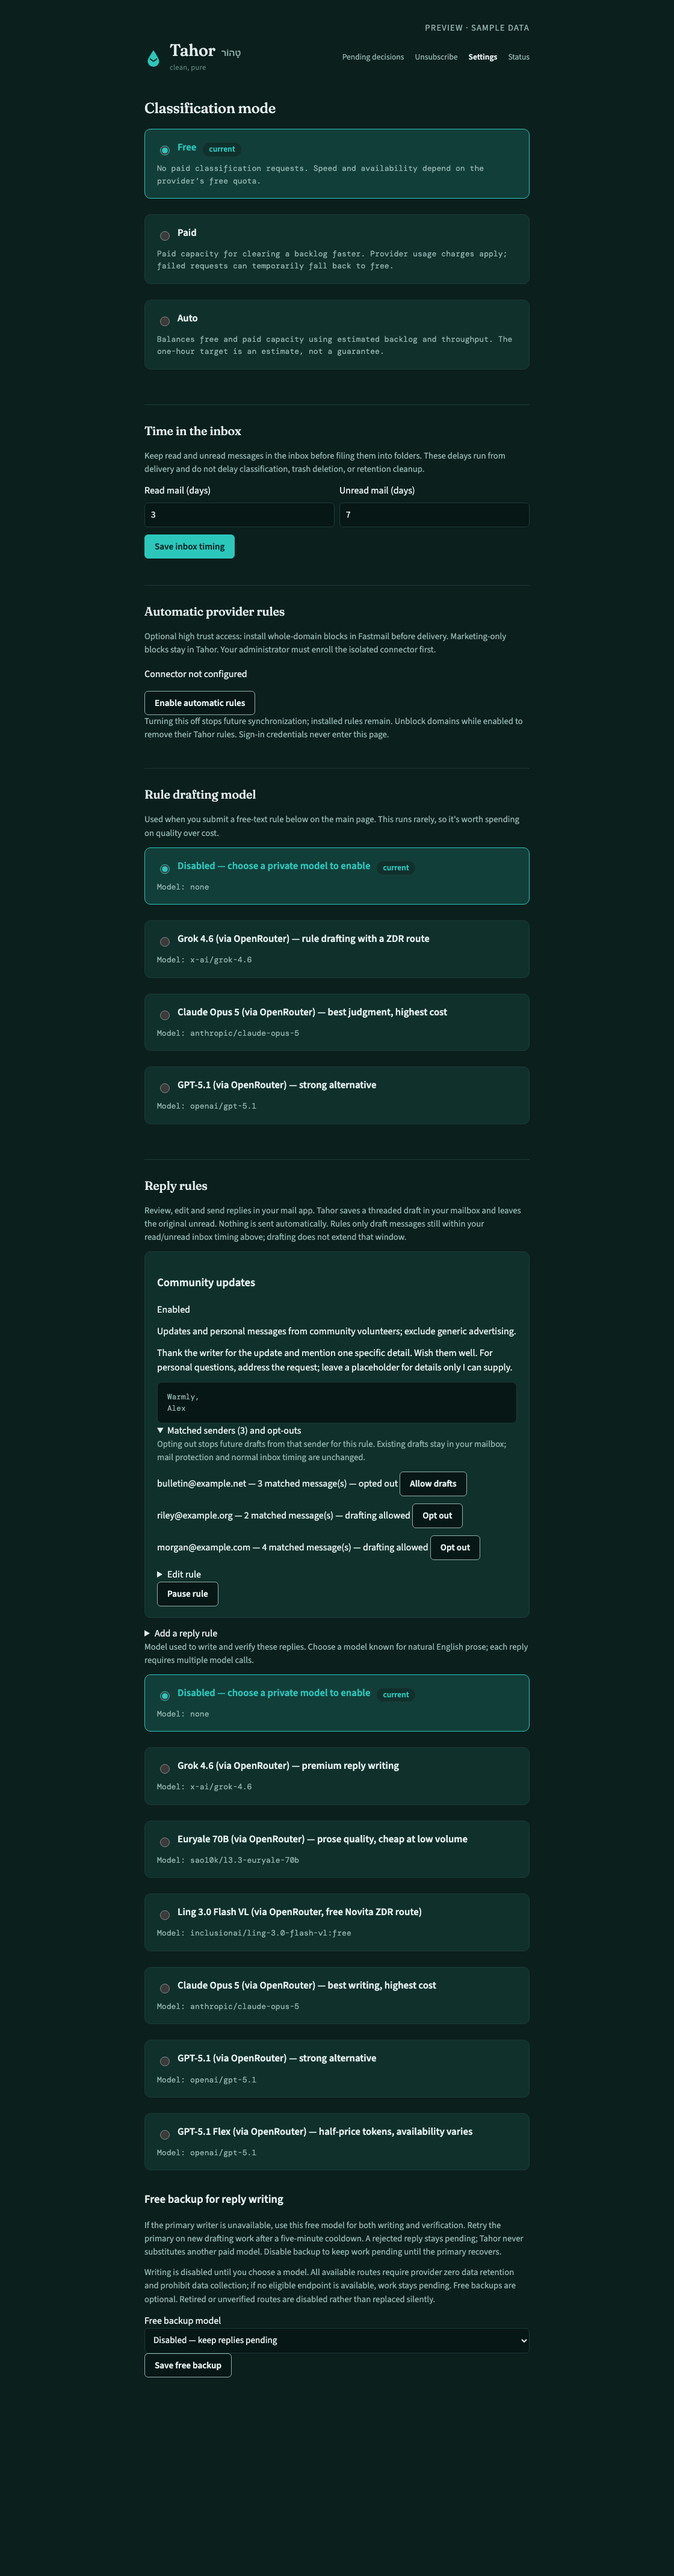
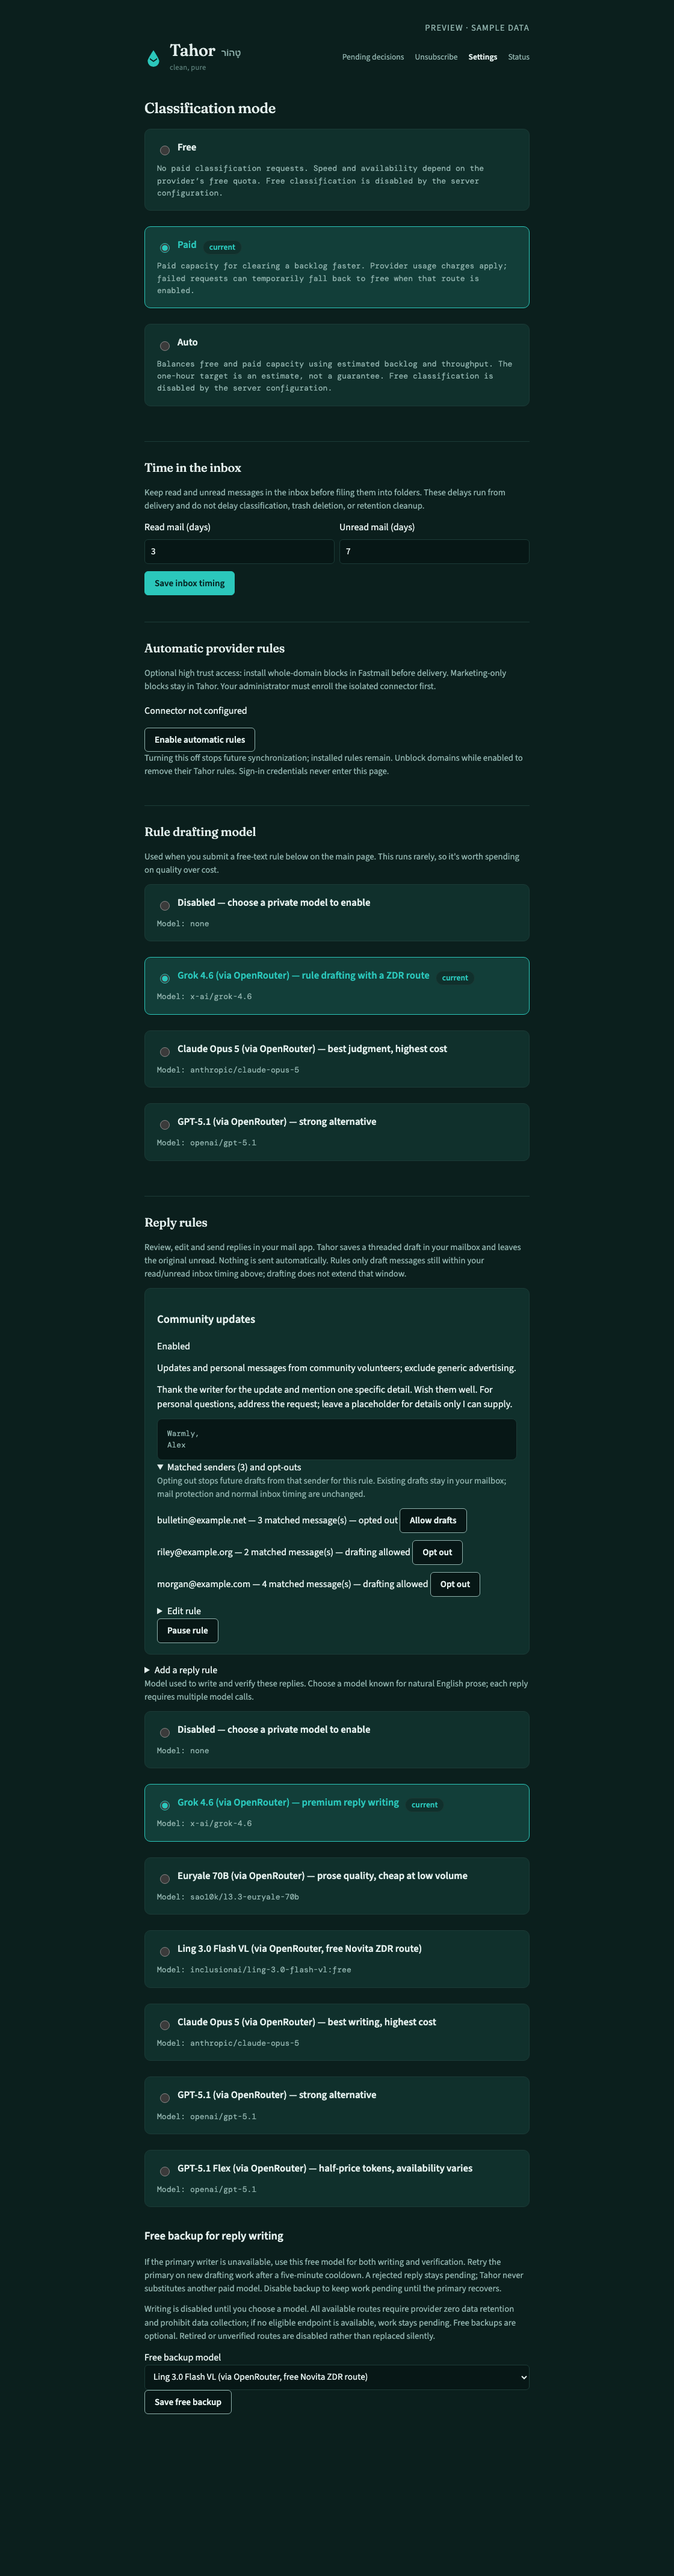
docs: show disabled free classification in setup screenshots

Changed region(s): [[0.2188, 0.0621, 0.7812, 0.9322], [0.4688, 0.1864, 0.625, 0.2175]]

diff --git a/demo.py b/demo.py
@@ -18,12 +18,15 @@ def main():
     args = parser.parse_args()
     with tempfile.TemporaryDirectory(prefix='tahor-demo-') as directory:
         state = Path(directory)
-        os.environ.update(TAHOR_DB_PATH=str(state / 'decisions.db'), TAHOR_SETTINGS_PATH=str(state / 'settings.json'), TAHOR_STATUS_PATH=str(state / 'worker_status.json'), DATA_DIR=str(state), ALLOWED_EMAIL='demo@example.com', BASE_URL=f'http://localhost:{args.port}', GOOGLE_CLIENT_ID='', GOOGLE_CLIENT_SECRET='', OPENROUTER_API_KEY='', GEMINI_API_KEY='', FASTMAIL_EMAIL='', FASTMAIL_APP_PASSWORD='', TAHOR_PROVIDER_BRIDGE='', TAHOR_DATA_PUSH='0', TAHOR_NOTIFY_HEALTH='0', TAHOR_NOTIFY_DIGEST='0', TAHOR_CLASSIFY_FREE_ENABLED='1')
+        os.environ.update(TAHOR_DB_PATH=str(state / 'decisions.db'), TAHOR_SETTINGS_PATH=str(state / 'settings.json'), TAHOR_STATUS_PATH=str(state / 'worker_status.json'), DATA_DIR=str(state), ALLOWED_EMAIL='demo@example.com', BASE_URL=f'http://localhost:{args.port}', GOOGLE_CLIENT_ID='', GOOGLE_CLIENT_SECRET='', OPENROUTER_API_KEY='', GEMINI_API_KEY='', FASTMAIL_EMAIL='', FASTMAIL_APP_PASSWORD='', TAHOR_PROVIDER_BRIDGE='', TAHOR_DATA_PUSH='0', TAHOR_NOTIFY_HEALTH='0', TAHOR_NOTIFY_DIGEST='0', TAHOR_CLASSIFY_FREE_ENABLED='0')
         sys.path.insert(0, str(ROOT / 'decision-app'))
         import app as ui
         from flask import request, session, redirect
         ui.init_db()
-        ui.mailbox_settings.set_classify_mode('free')
+        ui.mailbox_settings.set_classify_mode('paid')
+        ui.mailbox_settings.set_rule_model('grok-4.6')
+        ui.mailbox_settings.set_reply_model('grok-4.6')
+        ui.mailbox_settings.set_reply_backup_model('ling-free')
         rule_id = ui.reply_rules.save_rule(
             name='Community updates', match_type='natural_language',
             match='Updates and personal messages from community volunteers; exclude generic advertising.',
@@ -47,7 +50,7 @@ def main():
             ui.tahor_db.upsert_unsubscribe_candidate(domain, 'news@' + domain, name, 'https://' + domain + '/unsubscribe', None, True)
         ui.tahor_db.set_sender_rule('brightday.example', 'block_marketing')
         ui.generate_sieve.refresh_sieve()
-        ui.runtime_status.write_status('processed', mode='free', last_batch_applied=50, last_batch_pending=0, last_success_at=now)
+        ui.runtime_status.write_status('processed', mode='paid', last_batch_applied=50, last_batch_pending=0, last_success_at=now)
 
         @ui.app.before_request
         def preview_session():

diff --git a/decision-app/app.py b/decision-app/app.py
@@ -732,7 +732,7 @@ def index():
 MODE_LABELS = {"free": "Free", "paid": "Paid", "auto": "Auto"}
 MODE_DESCRIPTIONS = {
     "free": "No paid classification requests. Speed and availability depend on the provider’s free quota.",
-    "paid": "Paid capacity for clearing a backlog faster. Provider usage charges apply; failed requests can temporarily fall back to free.",
+    "paid": "Paid capacity for clearing a backlog faster. Provider usage charges apply; failed requests can temporarily fall back to free when that route is enabled.",
     "auto": "Balances free and paid capacity using estimated backlog and throughput. The one-hour target is an estimate, not a guarantee.",
 }
 
